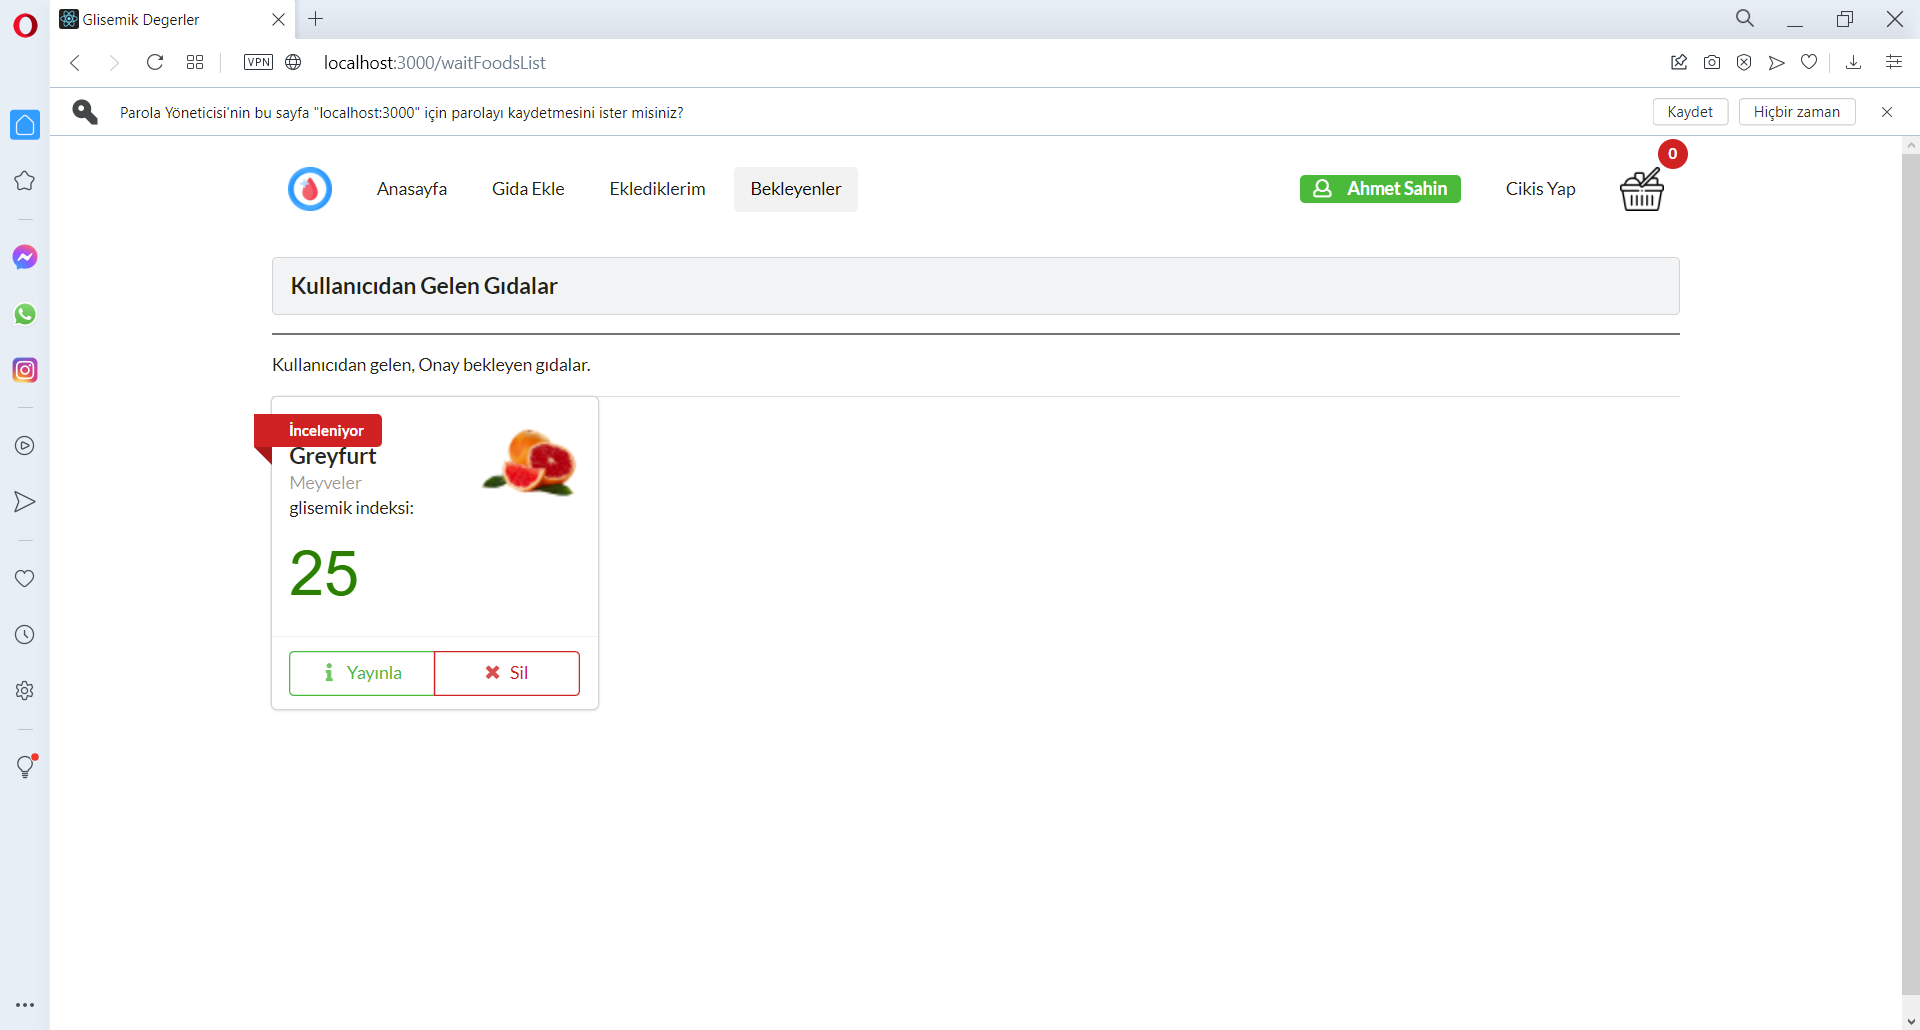
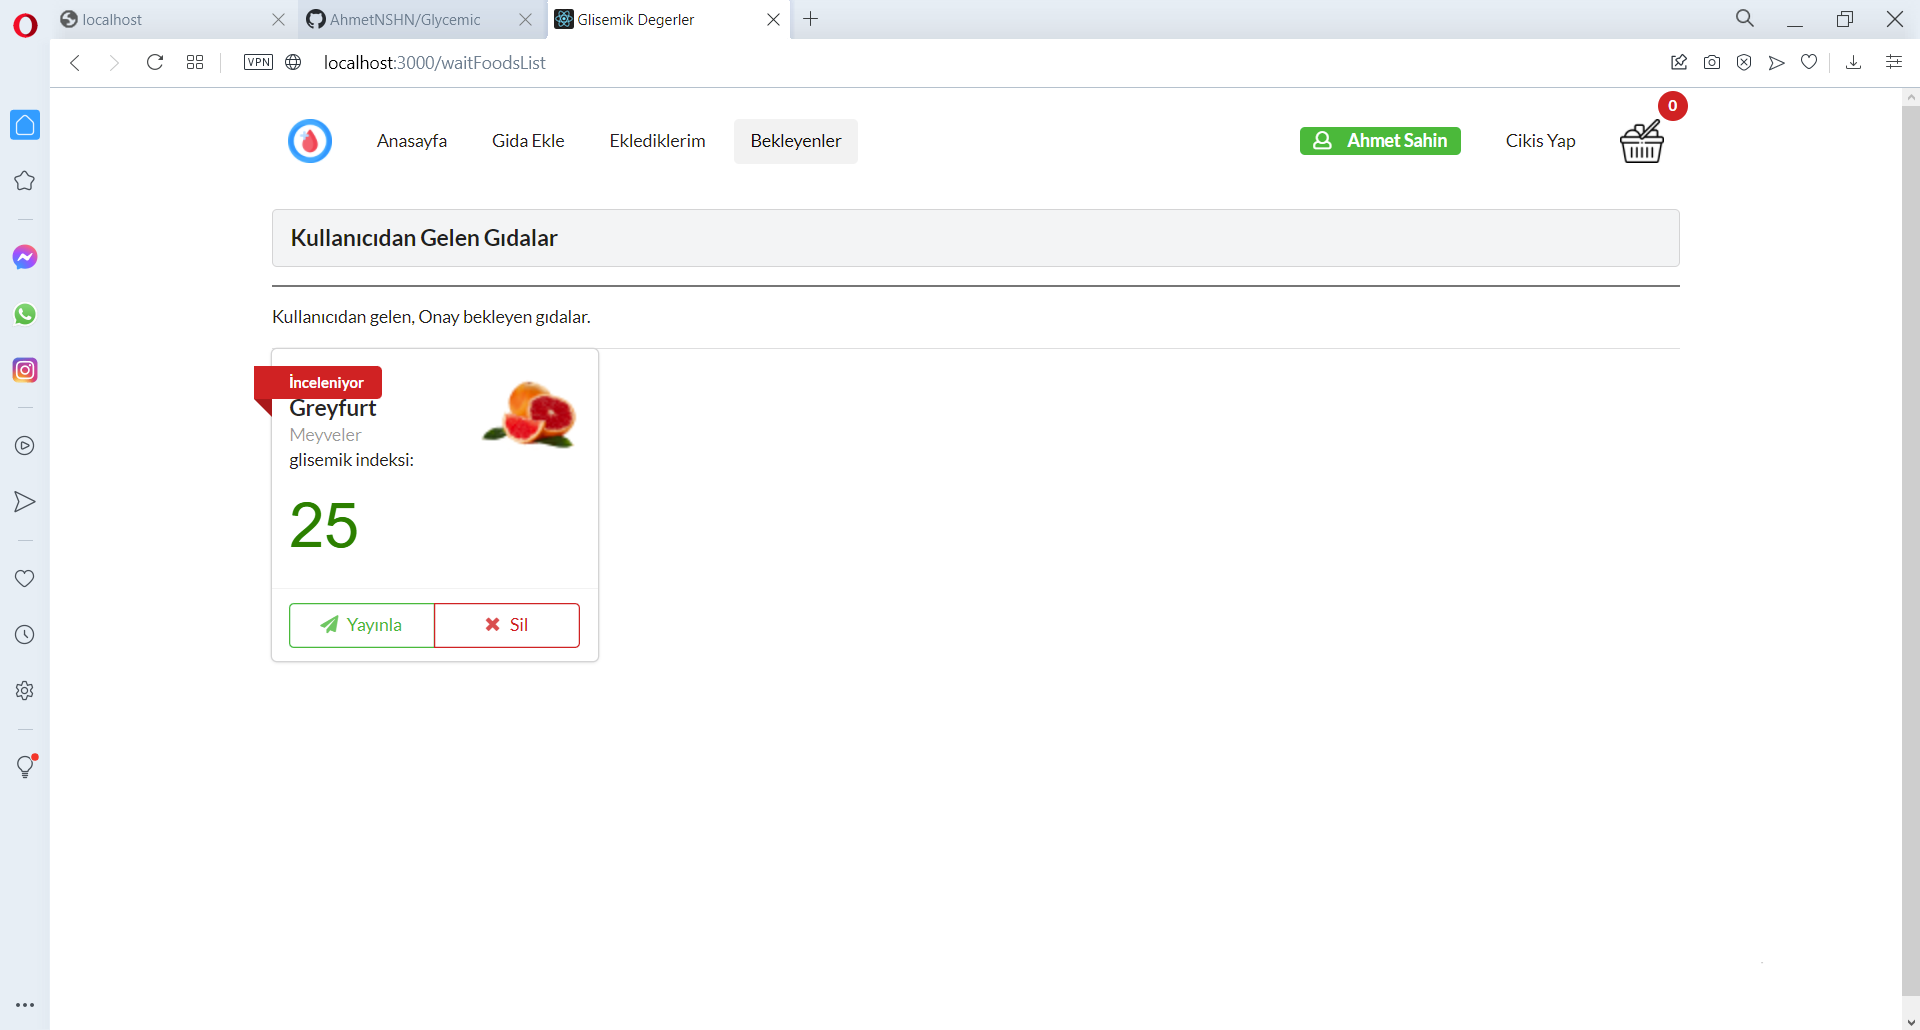
Cleanup

diff --git a/frontend/src/components/ItemCard.tsx b/frontend/src/components/ItemCard.tsx
@@ -79,11 +79,14 @@ export default function FoodsItem(props: itemType) {
                         />
                     }
 
+
+
                     {props.status &&
                         <>
                             <Label as='a' color={props.item.enabled === true ? 'blue' : 'red'} ribbon>
                                 {props.item.enabled === true ? "Yayında" : "İnceleniyor"}
                             </Label>
+                            
                             <Card.Header> {props.item.name} </Card.Header>
                         </>
                     }
@@ -123,7 +126,7 @@ export default function FoodsItem(props: itemType) {
                         {props.isAdmin &&
                             <>
                                 <Button basic color='green' onClick={() => fncPush()} >
-                                    <Icon name='info' />Yayınla
+                                    <Icon name='send' />Yayınla
                                 </Button>
 
                                 <Button basic color='red' onClick={() => deleteItem()}>

diff --git a/frontend/src/FoodsAdd.tsx b/frontend/src/FoodsAdd.tsx
@@ -19,9 +19,6 @@ export default function FoodsAdd() {
 
   const navigate = useNavigate()
 
-  // form item states
-  
-
   // animation
   const [visible, setVisible] = useState(false)
 
@@ -47,7 +44,6 @@ export default function FoodsAdd() {
     })
   } 
   
-  // else { toast.error("Lutfen bos alanlari doldurunuz") }
 
   useEffect(() => {
     if( autControl() === null ) {
@@ -61,9 +57,6 @@ export default function FoodsAdd() {
   }, [])
 
   
-
-
-
   // image to base64
   const imageOnChange = (e: any, d: InputOnChangeData) => {
     const file = e.target.files[0]

diff --git a/frontend/src/Services.tsx b/frontend/src/Services.tsx
@@ -40,7 +40,7 @@ export const logout = () => {
     return axiosConfig.get("register/userLogOut");
 }
 
-export const register = (name:string, surname:string, cityid:number, mobile:string, email:string, password: string) => {
+export const register = (name: string, surname: string, cityid: number, mobile: string, email: string, password: string) => {
     const data = {
         "name": name,
         "surname": surname,
